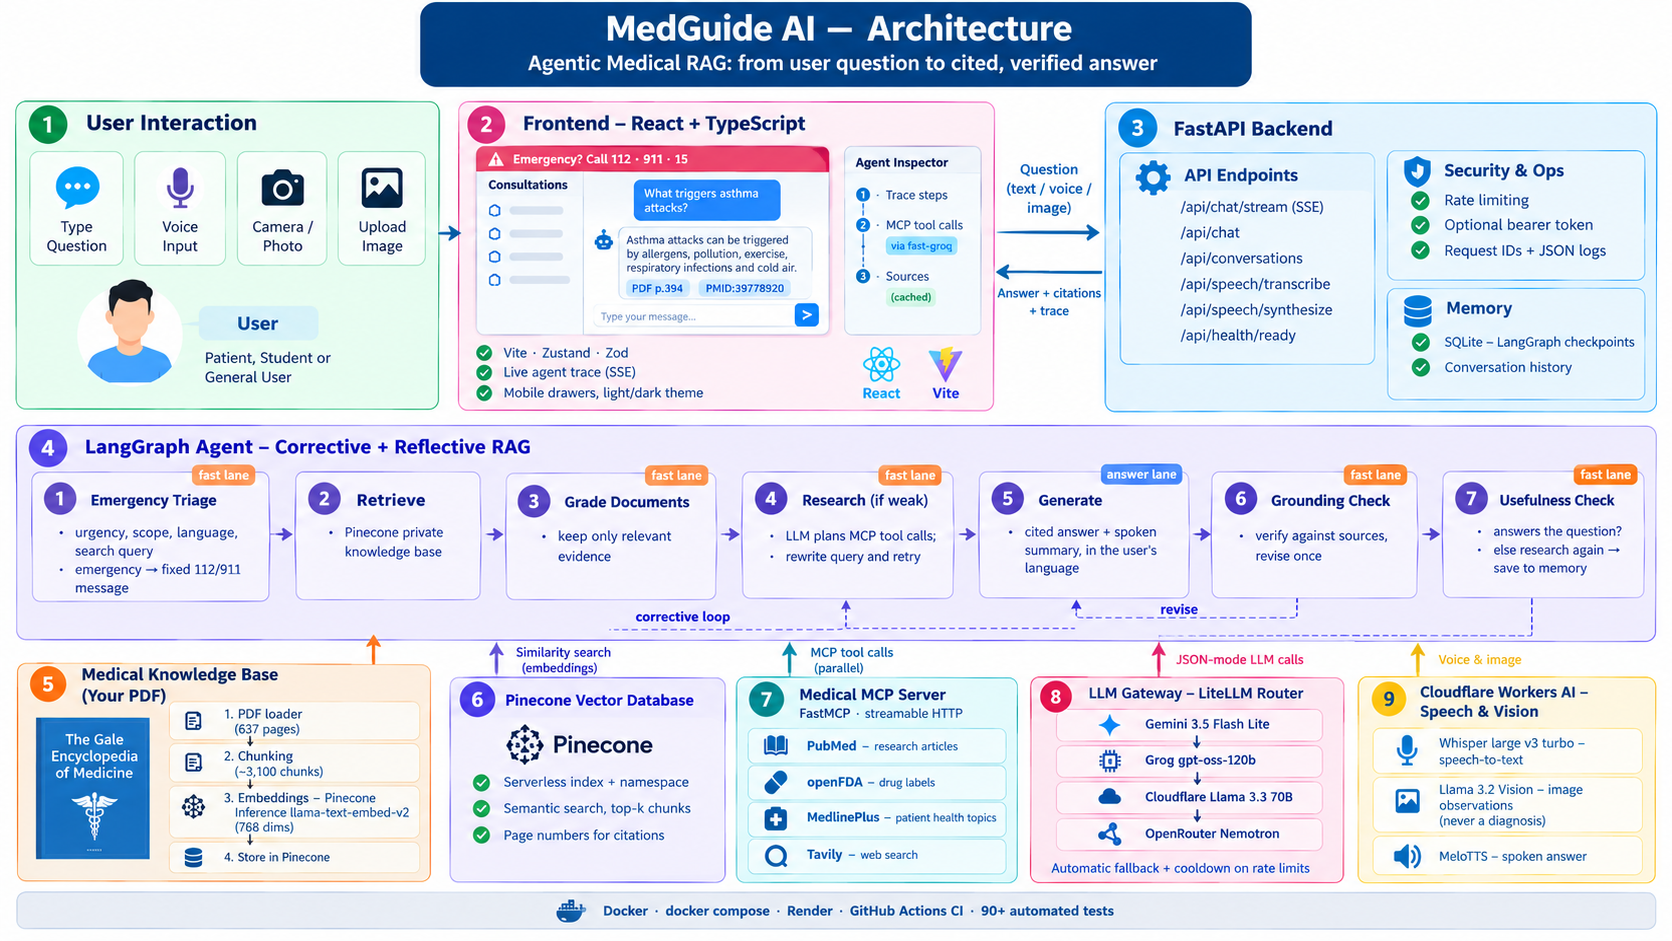
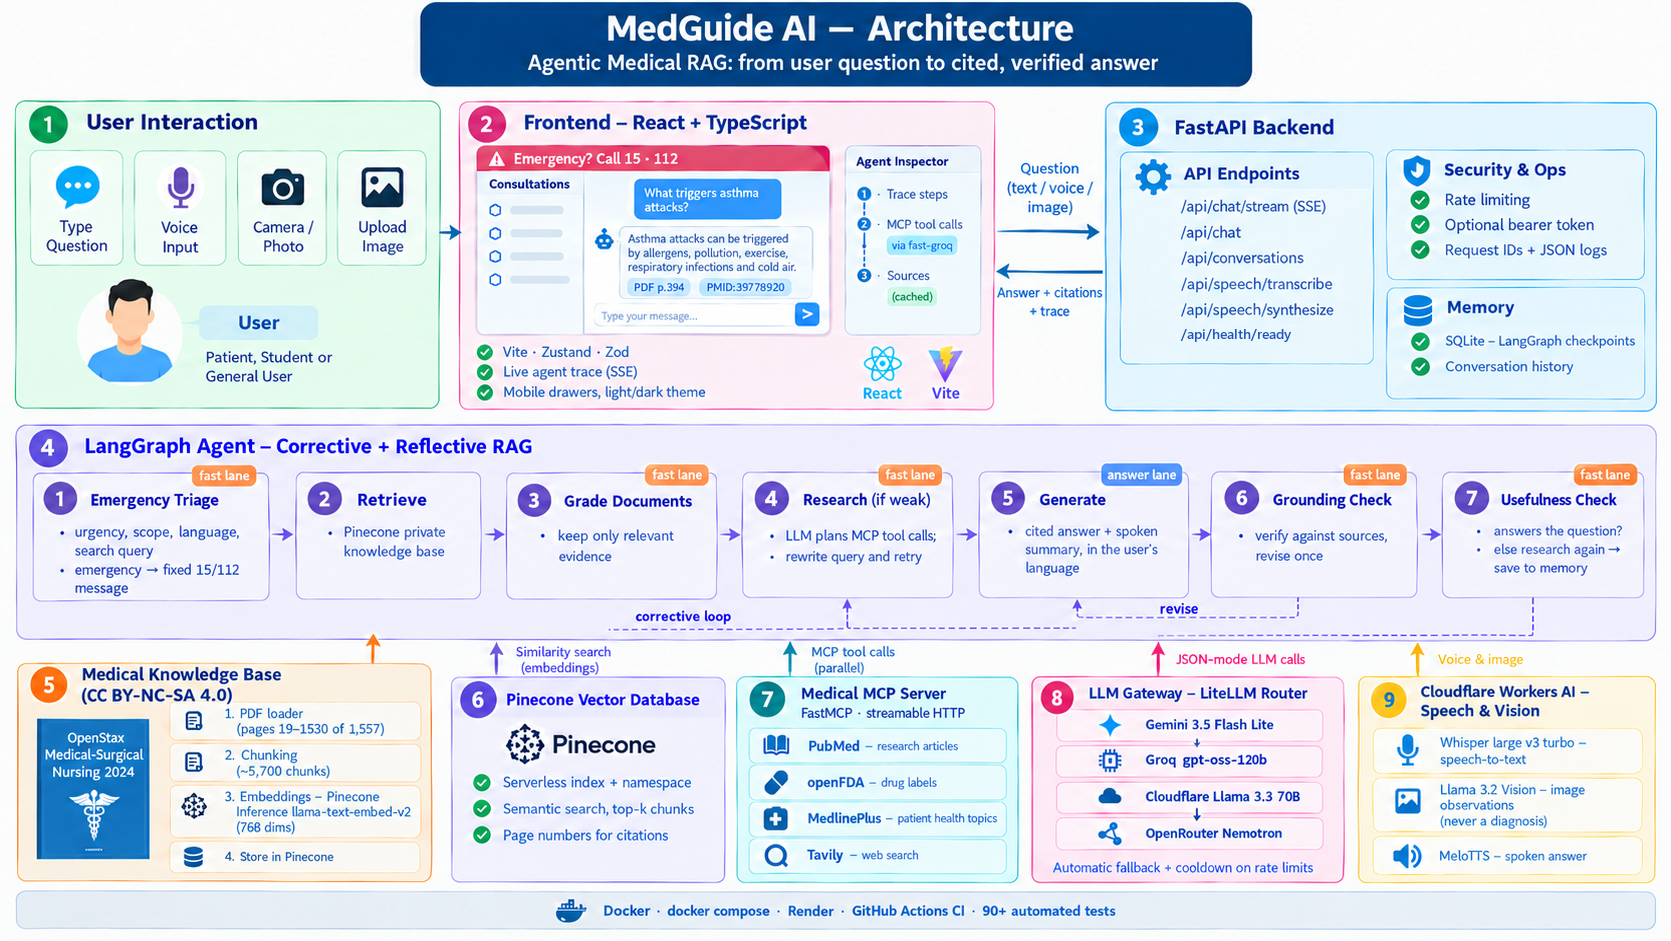
feat(kb): switch knowledge base to OpenStax Medical-Surgical Nursing (2024)
- Replace the 2002 Gale encyclopedia (copyrighted, letters A-B only) with an
  openly licensed (CC BY-NC-SA 4.0) 2024 textbook; the old PDF is removed
- Ingest script downloads the book from OpenStax when missing and indexes pages
  19-1530 only (skips table of contents, answer key and index); new --pages option
- PDFs in data/ are no longer versioned
- Prompts, UI labels and README no longer describe the source as historical;
  README documents the attribution and what the textbook does not cover
- Emergency strip lists 15 (SAMU) and 112 first; French emergency message adds
  the 114 SMS number
- Architecture diagram updated (knowledge base, emergency numbers, Groq typo)

diff --git a/frontend/src/components/TopBar.tsx b/frontend/src/components/TopBar.tsx
@@ -33,13 +33,12 @@ export function TopBar({
       <div className="emergency-strip" role="note">
         <Phone size={14} aria-hidden />
         <span className="strip-long">
-          <strong>Medical emergency?</strong> Call <strong>112</strong> (Europe) ·{" "}
-          <strong>911</strong> (US) · <strong>15</strong> (France). Do not wait for an online
+          <strong>Medical emergency?</strong> Call <strong>15</strong> (SAMU, France) ·{" "}
+          <strong>112</strong> (Europe) · <strong>911</strong> (US). Do not wait for an online
           answer.
         </span>
         <span className="strip-short">
-          <strong>Emergency?</strong> Call <strong>112</strong> · <strong>911</strong> ·{" "}
-          <strong>15</strong>
+          <strong>Emergency?</strong> Call <strong>15</strong> · <strong>112</strong>
         </span>
       </div>
 

diff --git a/app/agents/prompts.py b/app/agents/prompts.py
@@ -196,7 +196,8 @@ EMERGENCY_MESSAGES = {
         "- Ne conduisez pas vous-même ; demandez de l'aide à une personne proche.\n"
         "- Si la personne est inconsciente et ne respire pas normalement, commencez un massage "
         "cardiaque si vous savez le faire.\n"
-        "- S'il s'agit de pensées suicidaires, appelez le 3114 ou les services d'urgence.\n\n"
+        "- S'il s'agit de pensées suicidaires, appelez le 3114 ou les services d'urgence.\n"
+        "- Si vous ne pouvez pas parler ou entendre, envoyez un SMS au 114.\n\n"
         "Cet assistant ne peut pas évaluer une urgence. Demandez de l'aide maintenant."
     ),
     "es": (
